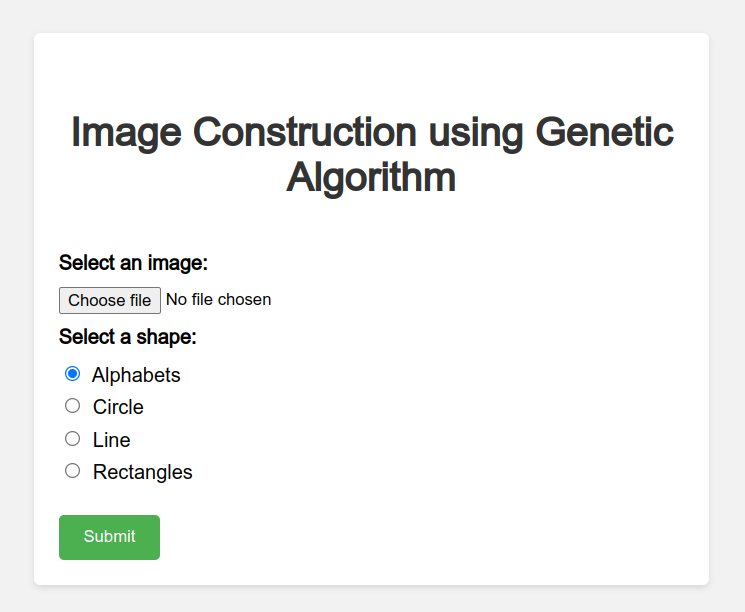
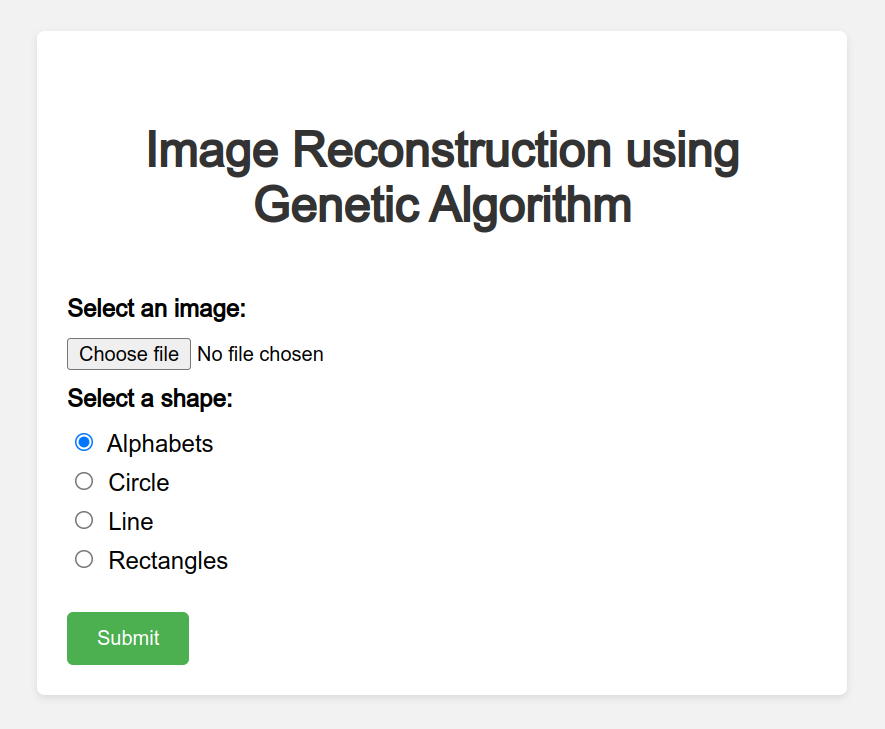
changed html title

Changed region(s): [[0.0926, 0.1552, 0.9262, 0.3415], [0.0617, 0.4036, 0.3705, 0.8072], [0.0617, 0.8382, 0.2161, 0.9314]]

diff --git a/templates/index.html b/templates/index.html
@@ -1,7 +1,7 @@
 <!DOCTYPE html>
 <html>
   <head>
-    <title>Image Construction using Genetic Algorithm</title>
+    <title>Image Reconstruction using Genetic Algorithm</title>
     <style>
       body {
         background-color: #f2f2f2;
@@ -63,7 +63,7 @@
   </head>
   <body>
     <div class="container">
-      <h1>Image Construction using Genetic Algorithm</h1>
+      <h1>Image Reconstruction using Genetic Algorithm</h1>
       <form action="/process_image" method="post" enctype="multipart/form-data">
         <label>Select an image:</label>
         <input type="file" name="image" /><br />
